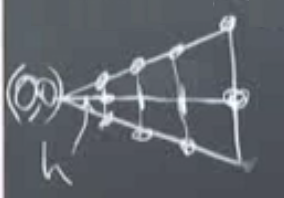
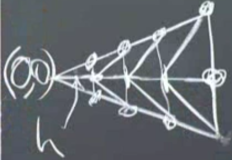
-

Changed region(s): [[0.0, 0.0, 0.9957, 1.0], [0.1207, 0.7188, 0.3017, 1.0]]

diff --git a/compscieng/compscieng_1_27/compscieng_1_27.html b/compscieng/compscieng_1_27/compscieng_1_27.html
@@ -55,14 +55,50 @@ ne olacağını düşünmek, bunlar ciddi işler. </p>
 kullanmanızı isteyeceğim, daha önce bahsettiğim piramitler bunlar. Ama
 bazılarınız karesel (quadratic) öğeler kullanmak isterse buna hayır demem.
 Bu öğeler daha hassas / doğru sonuçlar verecektir. </p>
-<p>Simdi izgarayi daha detayli sekilde yaratalim. Bir liste yaratacagiz, bu
-listede izgara noktalari olacak, bu liste cozum algoritmasina verilecek
-ve algoritma oradan devam edecek.</p>
+<p>Şimdi ızgarayı daha detaylı şekilde yaratalım. Bir liste yaratacağız, bu listede
+ızgara noktaları olacak, bu liste çözüm algoritmasina verilecek ve algoritma
+oradan devam edecek.</p>
 <p>Çember içinde daha önce yarattığımız üçgenlerden iki tanesini yanyana düşünelim,
 en sağ üstteki nokta nerededir? $(\cos \pi/8, \sin \pi/8)$ değil mi? Sonra en
 soldan en sağa $N$ tane (resimde $N=4$) düğüm daha koyarız, her aralık yatay
-eksende $h$ büyüklüğünde olabilir, ve $N h = \cos\pi/8$ tabii ki.</p>
+eksende $h$ büyüklüğünde olabilir, ve $N h = \cos\pi/8$ tabii ki. Sonra
+dörtgenleri ortadan kesen çizgiler de ekliyorum ve alttaki şekil ortaya çıkıyor,</p>
 <p><img alt="" src="compscieng_1_27_03.png" /></p>
+<p>Izgara düğüm noktalarına indis atamak iyi olur, soldan sağa önce orta çizgi
+üzerinde 1,2,3,4,5 diye gideriz, sonra üst kenar, ardından alt, 13 tane düğüm
+olur. Üçgenlere de indis atarız, 14 tane üçgen var. Düğüm noktalarının listesi
+(0,0), (h,0), (2h,0), .. diye gidecek. Peki üçgenler? Onları köşe indisleriyle
+belirtebiliriz, her üçgen için üç tane.</p>
+<p>Bu listeleri alan kod bir $K$ matrisi oluşturur, matris eşsiz (singular) olur
+çünkü sınır şartları daha içinde yok. En sağ üç nokta sıfırlandıktan sonra
+(sınır şartı onları etkiliyor) matris tersi çevrilebilir hale gelir, ve $Ku = f$
+çözülür. Kodun yaptığı $K$ ve $f$'yi oluşturmak.</p>
+<p>Üçgen şekilleri hakkında; üçgenlerin açıları ufak olmayacak şekilde seçin dedik
+fakat probleme göre bu değisebilir, mesela bir uçak kanadının aerodinamik
+simülasyonu için FEM kullanıyorsanız, havanın akışı yönünde ince ince üçgenler
+koymak gerekebilir çünkü ilginç olan fiziki fenomen o boyutta vuku bulmaktadır.</p>
+<p>Şimdi bir adım geriye atıp resme bir daha bakalım. Matrisi oluştururken temel
+aldığımız formül Poisson / Laplace denklemlerini zayıf formu. Güçlü formdan
+başlayalım,</p>
+<p>$$
+-u_{xx} - u_{yy} = f(x,y)
+$$</p>
+<p>Zayıf forma geçmek için iki tarafı bir deneme fonksiyonu ile çarpıyorum,
+ve tüm alan üzerinden entegralini alıyorum,</p>
+<p>$$
+\int \int (-u_{xx} - u_{yy}) v(x,y) \mathrm{d} x \mathrm{d} y =
+\int \int f(x,y) v(x,y)  \mathrm{d} x \mathrm{d} y
+$$</p>
+<p>Üstteki "tüm mümkün (admissable)" $v(x,y)$'ler için yapılır. Ana fikir şu eğer
+üstteki geniş bir $v$ ailesi için doğruysa bunun olmasının tek yolu sol tarafta
+çarpılanların sağ tarafta çarpılanlara eşit olması, çıtlatılan temel yardımcı
+önerim (lemma) bu.. Burada sözel olarak belirttik daha kuramsal şekilde de
+ispatı var ama, ana fikir güçlü formun zayıf forma olan eşitliği.</p>
+<p>Sonraki adım nedir? Eşitliğin sağ tarafı iyi ama sol taraf daha iyi olabilir,
+sol tarafta ikinci türev var, ve benim piramid fonksiyonlarımın ikinci türevleri
+yok. O zaman parçalı entegrasyon tekniğini uygularım, böylece türevi $u$'dan
+$v$'ye geçirebilirim, böylece $u$'da tek türev kalır ve böylece piramitlerimi
+kullanabilirim. </p>
 <p>[devam edecek]</p>
 <p>Kaynaklar</p>
 <p>[1] <em>18.085 SUMMER 2012 Site</em>,

diff --git a/compscieng/compscieng_1_27/ders_1.27.html b/compscieng/compscieng_1_27/ders_1.27.html
@@ -55,14 +55,50 @@ ne olacağını düşünmek, bunlar ciddi işler. </p>
 kullanmanızı isteyeceğim, daha önce bahsettiğim piramitler bunlar. Ama
 bazılarınız karesel (quadratic) öğeler kullanmak isterse buna hayır demem.
 Bu öğeler daha hassas / doğru sonuçlar verecektir. </p>
-<p>Simdi izgarayi daha detayli sekilde yaratalim. Bir liste yaratacagiz, bu
-listede izgara noktalari olacak, bu liste cozum algoritmasina verilecek
-ve algoritma oradan devam edecek.</p>
+<p>Şimdi ızgarayı daha detaylı şekilde yaratalım. Bir liste yaratacağız, bu listede
+ızgara noktaları olacak, bu liste çözüm algoritmasina verilecek ve algoritma
+oradan devam edecek.</p>
 <p>Çember içinde daha önce yarattığımız üçgenlerden iki tanesini yanyana düşünelim,
 en sağ üstteki nokta nerededir? $(\cos \pi/8, \sin \pi/8)$ değil mi? Sonra en
 soldan en sağa $N$ tane (resimde $N=4$) düğüm daha koyarız, her aralık yatay
-eksende $h$ büyüklüğünde olabilir, ve $N h = \cos\pi/8$ tabii ki.</p>
+eksende $h$ büyüklüğünde olabilir, ve $N h = \cos\pi/8$ tabii ki. Sonra
+dörtgenleri ortadan kesen çizgiler de ekliyorum ve alttaki şekil ortaya çıkıyor,</p>
 <p><img alt="" src="compscieng_1_27_03.png" /></p>
+<p>Izgara düğüm noktalarına indis atamak iyi olur, soldan sağa önce orta çizgi
+üzerinde 1,2,3,4,5 diye gideriz, sonra üst kenar, ardından alt, 13 tane düğüm
+olur. Üçgenlere de indis atarız, 14 tane üçgen var. Düğüm noktalarının listesi
+(0,0), (h,0), (2h,0), .. diye gidecek. Peki üçgenler? Onları köşe indisleriyle
+belirtebiliriz, her üçgen için üç tane.</p>
+<p>Bu listeleri alan kod bir $K$ matrisi oluşturur, matris eşsiz (singular) olur
+çünkü sınır şartları daha içinde yok. En sağ üç nokta sıfırlandıktan sonra
+(sınır şartı onları etkiliyor) matris tersi çevrilebilir hale gelir, ve $Ku = f$
+çözülür. Kodun yaptığı $K$ ve $f$'yi oluşturmak.</p>
+<p>Üçgen şekilleri hakkında; üçgenlerin açıları ufak olmayacak şekilde seçin dedik
+fakat probleme göre bu değisebilir, mesela bir uçak kanadının aerodinamik
+simülasyonu için FEM kullanıyorsanız, havanın akışı yönünde ince ince üçgenler
+koymak gerekebilir çünkü ilginç olan fiziki fenomen o boyutta vuku bulmaktadır.</p>
+<p>Şimdi bir adım geriye atıp resme bir daha bakalım. Matrisi oluştururken temel
+aldığımız formül Poisson / Laplace denklemlerini zayıf formu. Güçlü formdan
+başlayalım,</p>
+<p>$$
+-u_{xx} - u_{yy} = f(x,y)
+$$</p>
+<p>Zayıf forma geçmek için iki tarafı bir deneme fonksiyonu ile çarpıyorum,
+ve tüm alan üzerinden entegralini alıyorum,</p>
+<p>$$
+\int \int (-u_{xx} - u_{yy}) v(x,y) \mathrm{d} x \mathrm{d} y =
+\int \int f(x,y) v(x,y)  \mathrm{d} x \mathrm{d} y
+$$</p>
+<p>Üstteki "tüm mümkün (admissable)" $v(x,y)$'ler için yapılır. Ana fikir şu eğer
+üstteki geniş bir $v$ ailesi için doğruysa bunun olmasının tek yolu sol tarafta
+çarpılanların sağ tarafta çarpılanlara eşit olması, çıtlatılan temel yardımcı
+önerim (lemma) bu.. Burada sözel olarak belirttik daha kuramsal şekilde de
+ispatı var ama, ana fikir güçlü formun zayıf forma olan eşitliği.</p>
+<p>Sonraki adım nedir? Eşitliğin sağ tarafı iyi ama sol taraf daha iyi olabilir,
+sol tarafta ikinci türev var, ve benim piramid fonksiyonlarımın ikinci türevleri
+yok. O zaman parçalı entegrasyon tekniğini uygularım, böylece türevi $u$'dan
+$v$'ye geçirebilirim, böylece $u$'da tek türev kalır ve böylece piramitlerimi
+kullanabilirim. </p>
 <p>[devam edecek]</p>
 <p>Kaynaklar</p>
 <p>[1] <em>18.085 SUMMER 2012 Site</em>,

diff --git a/compscieng/compscieng_1_27/compscieng_1_27.tex b/compscieng/compscieng_1_27/compscieng_1_27.tex
@@ -45,18 +45,61 @@ kullanmanızı isteyeceğim, daha önce bahsettiğim piramitler bunlar. Ama
 bazılarınız karesel (quadratic) öğeler kullanmak isterse buna hayır demem.
 Bu öğeler daha hassas / doğru sonuçlar verecektir. 
 
-Simdi izgarayi daha detayli sekilde yaratalim. Bir liste yaratacagiz, bu
-listede izgara noktalari olacak, bu liste cozum algoritmasina verilecek
-ve algoritma oradan devam edecek.
+Şimdi ızgarayı daha detaylı şekilde yaratalım. Bir liste yaratacağız, bu listede
+ızgara noktaları olacak, bu liste çözüm algoritmasina verilecek ve algoritma
+oradan devam edecek.
 
 Çember içinde daha önce yarattığımız üçgenlerden iki tanesini yanyana düşünelim,
 en sağ üstteki nokta nerededir? $(\cos \pi/8, \sin \pi/8)$ değil mi? Sonra en
 soldan en sağa $N$ tane (resimde $N=4$) düğüm daha koyarız, her aralık yatay
-eksende $h$ büyüklüğünde olabilir, ve $N h = \cos\pi/8$ tabii ki.
+eksende $h$ büyüklüğünde olabilir, ve $N h = \cos\pi/8$ tabii ki. Sonra
+dörtgenleri ortadan kesen çizgiler de ekliyorum ve alttaki şekil ortaya çıkıyor,
 
-\includegraphics[width=20em]{compscieng_1_27_03.png}
+\includegraphics[width=15em]{compscieng_1_27_03.png}
 
+Izgara düğüm noktalarına indis atamak iyi olur, soldan sağa önce orta çizgi
+üzerinde 1,2,3,4,5 diye gideriz, sonra üst kenar, ardından alt, 13 tane düğüm
+olur. Üçgenlere de indis atarız, 14 tane üçgen var. Düğüm noktalarının listesi
+(0,0), (h,0), (2h,0), .. diye gidecek. Peki üçgenler? Onları köşe indisleriyle
+belirtebiliriz, her üçgen için üç tane.
 
+Bu listeleri alan kod bir $K$ matrisi oluşturur, matris eşsiz (singular) olur
+çünkü sınır şartları daha içinde yok. En sağ üç nokta sıfırlandıktan sonra
+(sınır şartı onları etkiliyor) matris tersi çevrilebilir hale gelir, ve $Ku = f$
+çözülür. Kodun yaptığı $K$ ve $f$'yi oluşturmak.
+
+Üçgen şekilleri hakkında; üçgenlerin açıları ufak olmayacak şekilde seçin dedik
+fakat probleme göre bu değisebilir, mesela bir uçak kanadının aerodinamik
+simülasyonu için FEM kullanıyorsanız, havanın akışı yönünde ince ince üçgenler
+koymak gerekebilir çünkü ilginç olan fiziki fenomen o boyutta vuku bulmaktadır.
+
+Şimdi bir adım geriye atıp resme bir daha bakalım. Matrisi oluştururken temel
+aldığımız formül Poisson / Laplace denklemlerini zayıf formu. Güçlü formdan
+başlayalım,
+
+$$
+-u_{xx} - u_{yy} = f(x,y)
+$$
+
+Zayıf forma geçmek için iki tarafı bir deneme fonksiyonu ile çarpıyorum,
+ve tüm alan üzerinden entegralini alıyorum,
+
+$$
+\int \int (-u_{xx} - u_{yy}) v(x,y) \ud x \ud y =
+\int \int f(x,y) v(x,y)  \ud x \ud y
+$$
+
+Üstteki ``tüm mümkün (admissable)'' $v(x,y)$'ler için yapılır. Ana fikir şu eğer
+üstteki geniş bir $v$ ailesi için doğruysa bunun olmasının tek yolu sol tarafta
+çarpılanların sağ tarafta çarpılanlara eşit olması, çıtlatılan temel yardımcı
+önerim (lemma) bu.. Burada sözel olarak belirttik daha kuramsal şekilde de
+ispatı var ama, ana fikir güçlü formun zayıf forma olan eşitliği.
+
+Sonraki adım nedir? Eşitliğin sağ tarafı iyi ama sol taraf daha iyi olabilir,
+sol tarafta ikinci türev var, ve benim piramid fonksiyonlarımın ikinci türevleri
+yok. O zaman parçalı entegrasyon tekniğini uygularım, böylece türevi $u$'dan
+$v$'ye geçirebilirim, böylece $u$'da tek türev kalır ve böylece piramitlerimi
+kullanabilirim. 
 
 
 
